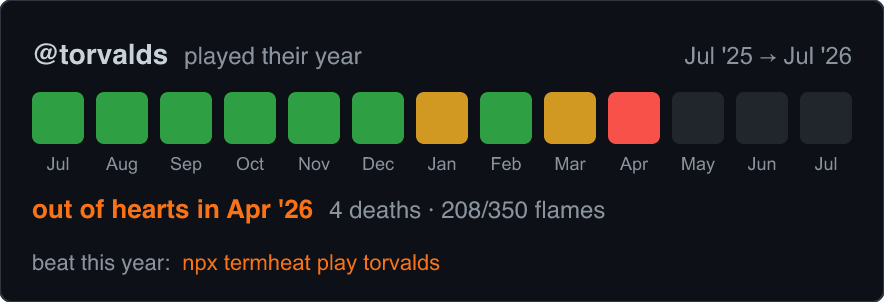
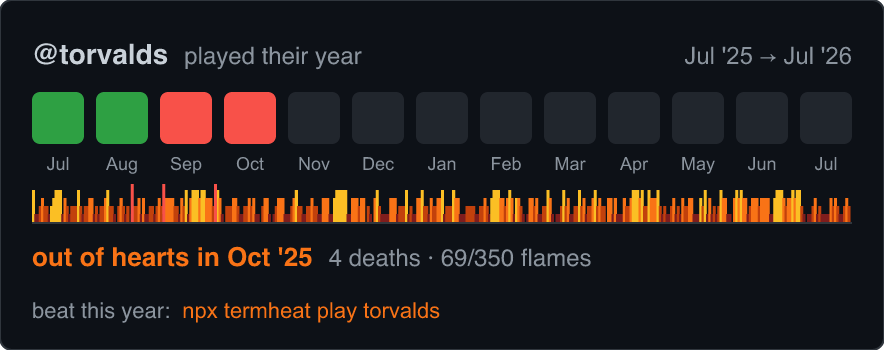
fix: added the terrain graph for shared artifacts

diff --git a/src/run-card.ts b/src/run-card.ts
@@ -28,7 +28,12 @@ const TILE = 26;
 const TILE_GAP = 6;
 const TILES_TOP = 46;
 const LABEL_BASELINE = TILES_TOP + TILE + 13;
-const STATS_BASELINE = LABEL_BASELINE + 24;
+// The level itself, drawn under the month tiles: the terrain the run was
+// actually played on, one thin bar per day, plus a red tick per death.
+const TERRAIN_TOP = LABEL_BASELINE + 10;
+const TERRAIN_ROW = 4; // px per terrain height row (heights are 0–4)
+const TERRAIN_H = 4 * TERRAIN_ROW;
+const STATS_BASELINE = TERRAIN_TOP + TERRAIN_H + 22;
 const FOOTER_BASELINE = STATS_BASELINE + 26;
 
 export interface RunCardOptions {
@@ -43,6 +48,7 @@ export function renderRunCard({ username, w, level, theme }: RunCardOptions): st
 	const width = Math.max(420, PAD * 2 + grades.length * (TILE + TILE_GAP) - TILE_GAP);
 	const height = FOOTER_BASELINE + PAD;
 	const user = escapeXml(username);
+	const terrain = terrainStrip(w, level, theme, width);
 
 	const tiles = grades
 		.map((grade, i) => {
@@ -63,8 +69,45 @@ export function renderRunCard({ username, w, level, theme }: RunCardOptions): st
 <text x="${PAD}" y="${PAD + 16}" ${FONT}><tspan fill="${TEXT}" font-size="14" font-weight="600">@${user}</tspan><tspan fill="${MUTED}" font-size="12" dx="8">played their year</tspan></text>
 <text x="${width - PAD}" y="${PAD + 16}" text-anchor="end" fill="${MUTED}" font-size="12" ${FONT}>${yearSpan(level)}</text>
 ${tiles}
+${terrain}
 <text x="${PAD}" y="${STATS_BASELINE}" ${FONT}><tspan fill="${theme.accent}" font-size="13" font-weight="600">${outcomeLine(w, level)}</tspan><tspan fill="${MUTED}" font-size="12" dx="8">${deaths} · ${flames}</tspan></text>
 <text x="${PAD}" y="${FOOTER_BASELINE}" ${FONT}><tspan fill="${MUTED}" font-size="11">beat this year:</tspan><tspan fill="${theme.accent}" font-size="11" font-family="ui-monospace, monospace" dx="6">npx ${APP_NAME} play ${user}</tspan></text>
 </svg>
 `;
+}
+
+/**
+ * The level itself as a strip: one bar per day at its repaired height, in the
+ * theme's honest level colors (ghost bridges dim, pits gaps over a baseline),
+ * with a red tick where each death happened. This is what makes the card
+ * recognizably YOUR year, not a generic score screen.
+ */
+function terrainStrip(w: EngineState, level: GameLevel, theme: Theme, width: number): string {
+	const days = level.columns.length;
+	if (days === 0) return "";
+	const innerW = width - PAD * 2;
+	const dayW = innerW / days;
+	const baseY = TERRAIN_TOP + TERRAIN_H;
+
+	const bars = level.columns
+		.map((cell, i) => {
+			const h = Math.max(0, Math.min(4, cell.height));
+			if (h === 0) return "";
+			// +0.4 overdraw closes the sub-pixel seams between neighboring bars.
+			const barH = h * TERRAIN_ROW;
+			const fill = cell.ghost ? BORDER : theme.levels[cell.level];
+			return `<rect x="${(PAD + i * dayW).toFixed(2)}" y="${baseY - barH}" width="${(dayW + 0.4).toFixed(2)}" height="${barH}" fill="${fill}"/>`;
+		})
+		.filter(Boolean)
+		.join("");
+
+	// One tick per death column (a repeated column still reads as one scar).
+	const ticks = [...new Set(w.deathLog)]
+		.map((col) => {
+			const date = level.columns[col]?.date ?? "";
+			return `<rect x="${(PAD + col * dayW).toFixed(2)}" y="${TERRAIN_TOP - 3}" width="1.5" height="${TERRAIN_H + 3}" fill="#f85149"><title>died here: ${date}</title></rect>`;
+		})
+		.join("");
+
+	return `<g><rect x="${PAD}" y="${baseY}" width="${innerW}" height="1" fill="${BORDER}"/>${bars}${ticks}</g>`;
 }

diff --git a/src/test/run-card.test.ts b/src/test/run-card.test.ts
@@ -43,6 +43,9 @@ describe("renderRunCard", () => {
 		// Jul clean (green), Aug one death (yellow), Sep clean.
 		expect(svg.match(/#2ea043/g)).toHaveLength(2);
 		expect(svg.match(/#d29922/g)).toHaveLength(1);
+		// The terrain strip: every day gets a bar, and the death leaves a dated tick.
+		expect(svg.match(/<rect/g)!.length).toBeGreaterThan(90);
+		expect(svg).toContain("died here: 2025-08-10");
 		expect(svg).toContain("cleared in 48s");
 		expect(svg).toContain("1 death ·");
 		expect(svg).toContain("7/10 flames");
@@ -58,7 +61,8 @@ describe("renderRunCard", () => {
 		const svg = renderRunCard({ username: "moeen-mahmud", w, level, theme: themeFor("github") });
 		expect(svg).toContain("out of hearts in Aug '25");
 		expect(svg.match(/#21262d/g)).toHaveLength(1); // Sep never reached
-		expect(svg.match(/#f85149/g)).toHaveLength(1); // Aug bled twice
+		// Aug's bloody tile + one terrain tick per distinct death column.
+		expect(svg.match(/#f85149/g)).toHaveLength(3);
 	});
 
 	test("the username is XML-escaped everywhere it appears", () => {